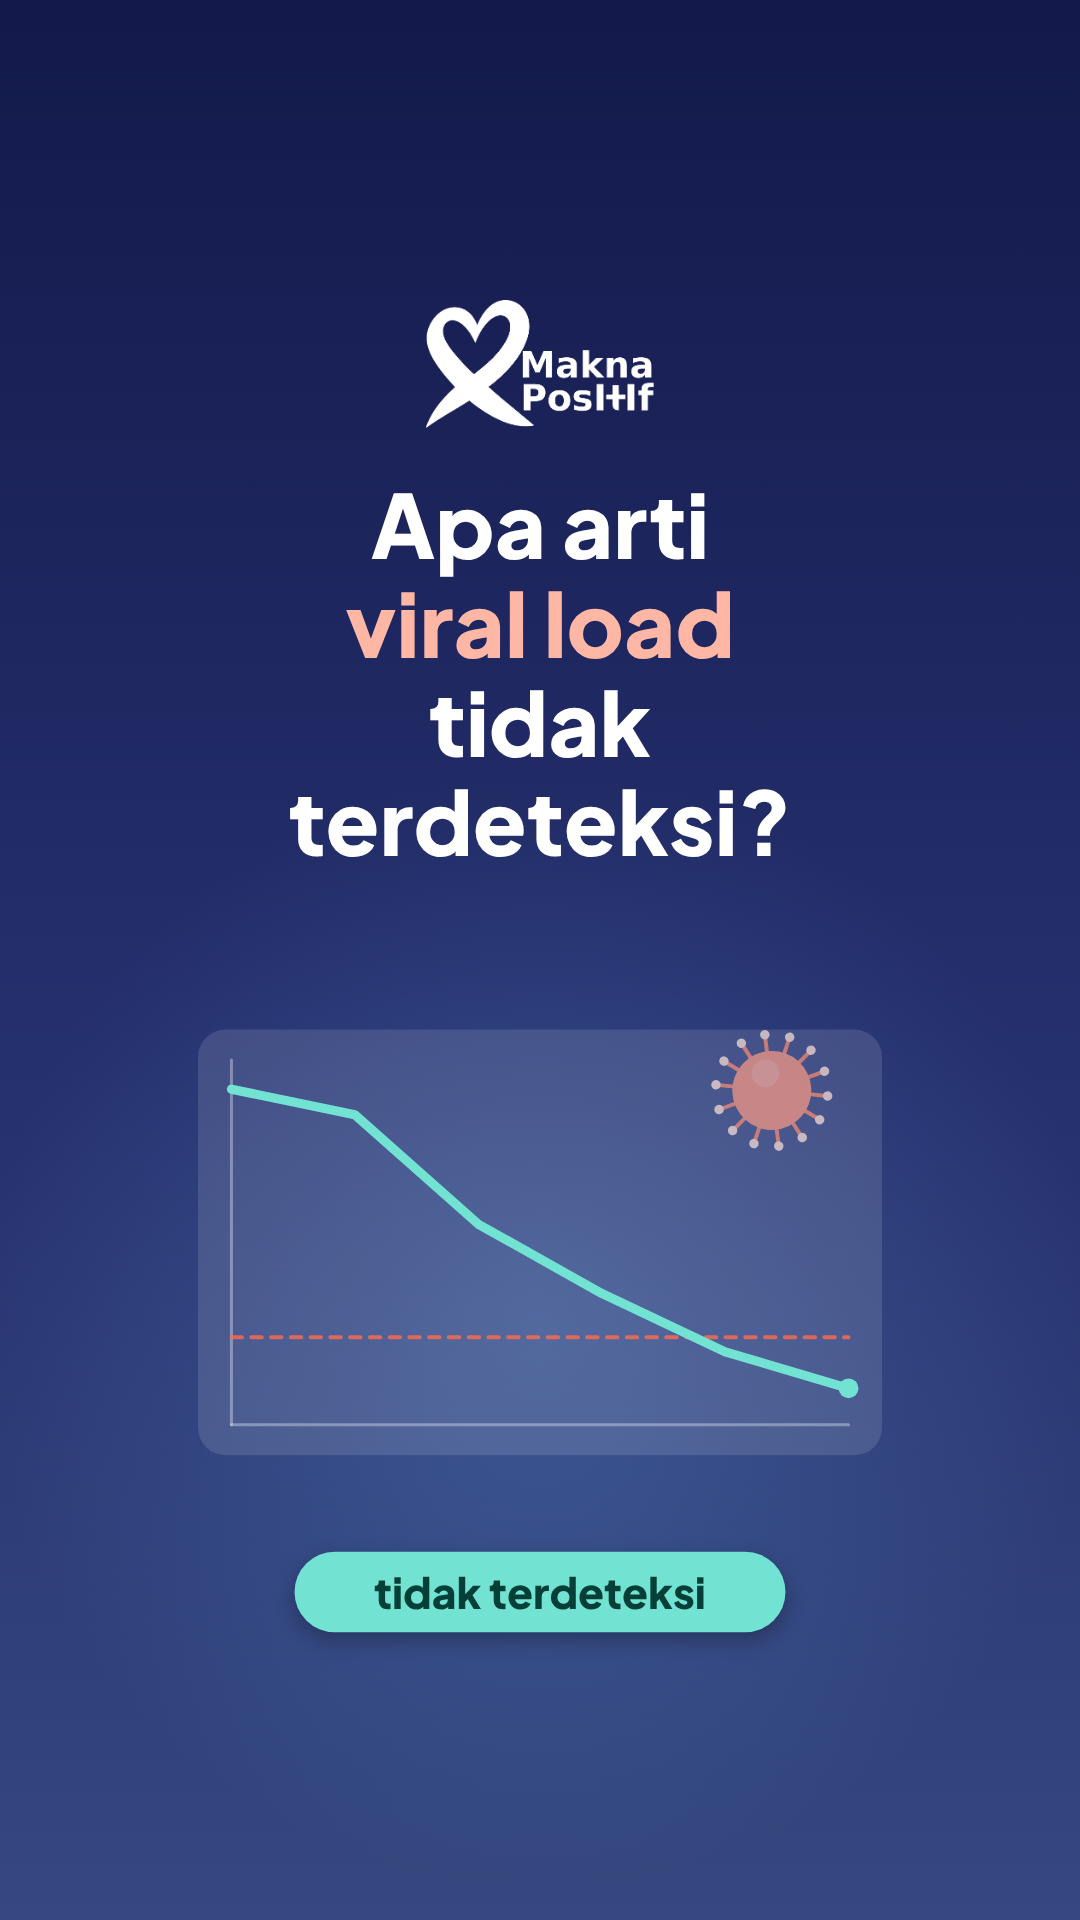
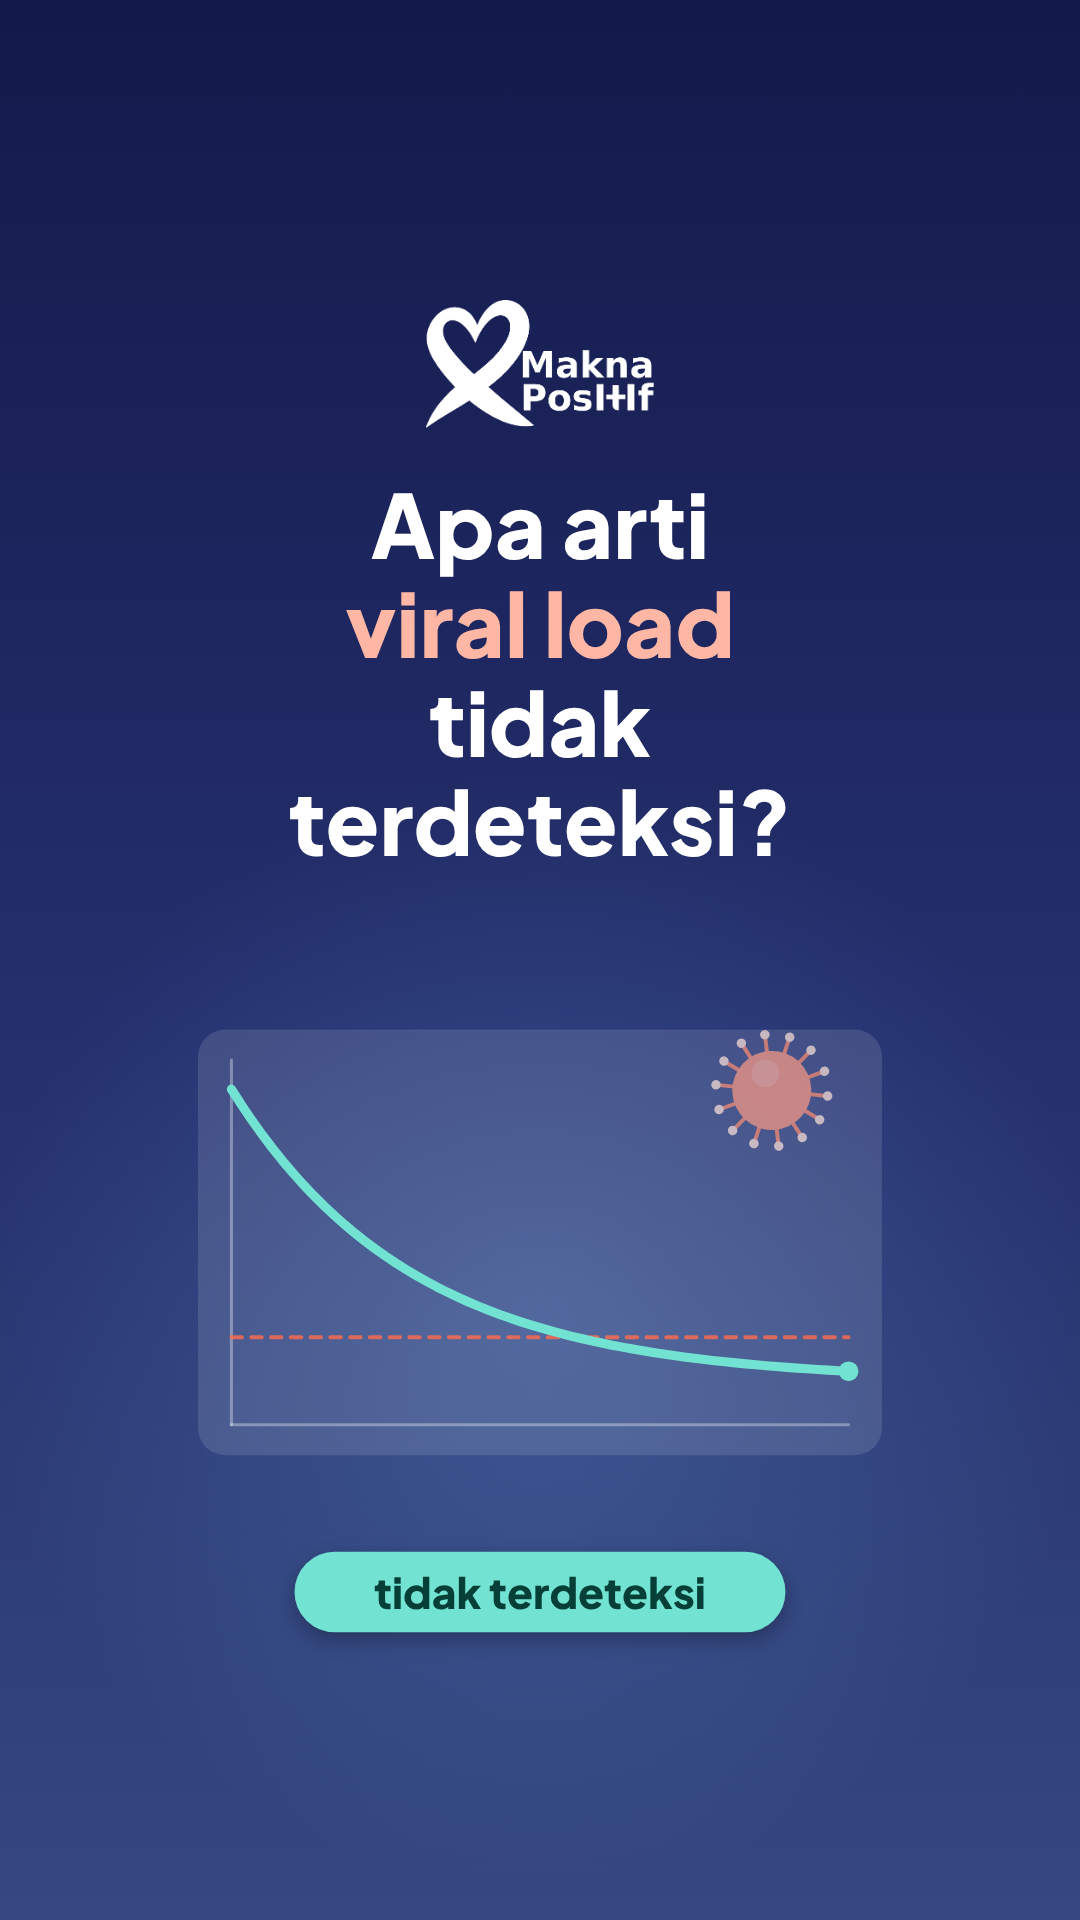
thumbnail S1E9: grafik kurva turun melengkung mulus

diff --git a/src/thumb/Thumb.tsx b/src/thumb/Thumb.tsx
@@ -370,7 +370,22 @@ export const ThumbS1E9: React.FC = () => (
     glowY={1330}
   >
     <Svg>
-      <LineChart cx={540} cy={1330} w={900} h={560} points={[0.92, 0.85, 0.55, 0.36, 0.2, 0.1]} threshold={0.24} />
+      {/* grafik sendiri: kurva turun melengkung mulus (peluruhan eksponensial), bukan garis patah */}
+      <g transform="translate(540 1330)">
+        <rect x={-450} y={-280} width={900} height={560} rx={36} fill="#fff" fillOpacity={0.12} />
+        <line x1={-406} y1={240} x2={406} y2={240} stroke="#fff" strokeOpacity={0.35} strokeWidth={4} strokeLinecap="round" />
+        <line x1={-406} y1={-240} x2={-406} y2={240} stroke="#fff" strokeOpacity={0.35} strokeWidth={4} strokeLinecap="round" />
+        <line x1={-406} y1={240 - 0.24 * 480} x2={406} y2={240 - 0.24 * 480} stroke="#FF6B4D" strokeOpacity={0.8} strokeWidth={5} strokeDasharray="14 12" strokeLinecap="round" />
+        <path
+          d={Array.from({ length: 61 }, (_, i) => {
+            const u = i / 60;
+            const v = 0.12 + 0.8 * Math.exp(-3.4 * u);
+            return `${i ? 'L' : 'M'} ${-406 + u * 812} ${240 - v * 480}`;
+          }).join(' ')}
+          fill="none" stroke="#72E3D3" strokeWidth={12} strokeLinecap="round" strokeLinejoin="round"
+        />
+        <circle cx={406} cy={240 - (0.12 + 0.8 * Math.exp(-3.4)) * 480} r={13} fill="#72E3D3" />
+      </g>
       <FlatVirus cx={845} cy={1130} r={52} rot={20} dim={0.7} />
     </Svg>
     <Pill cx={540} cy={1790} text="tidak terdeteksi" bg="#72E3D3" fg="#063F38" size={56} />
